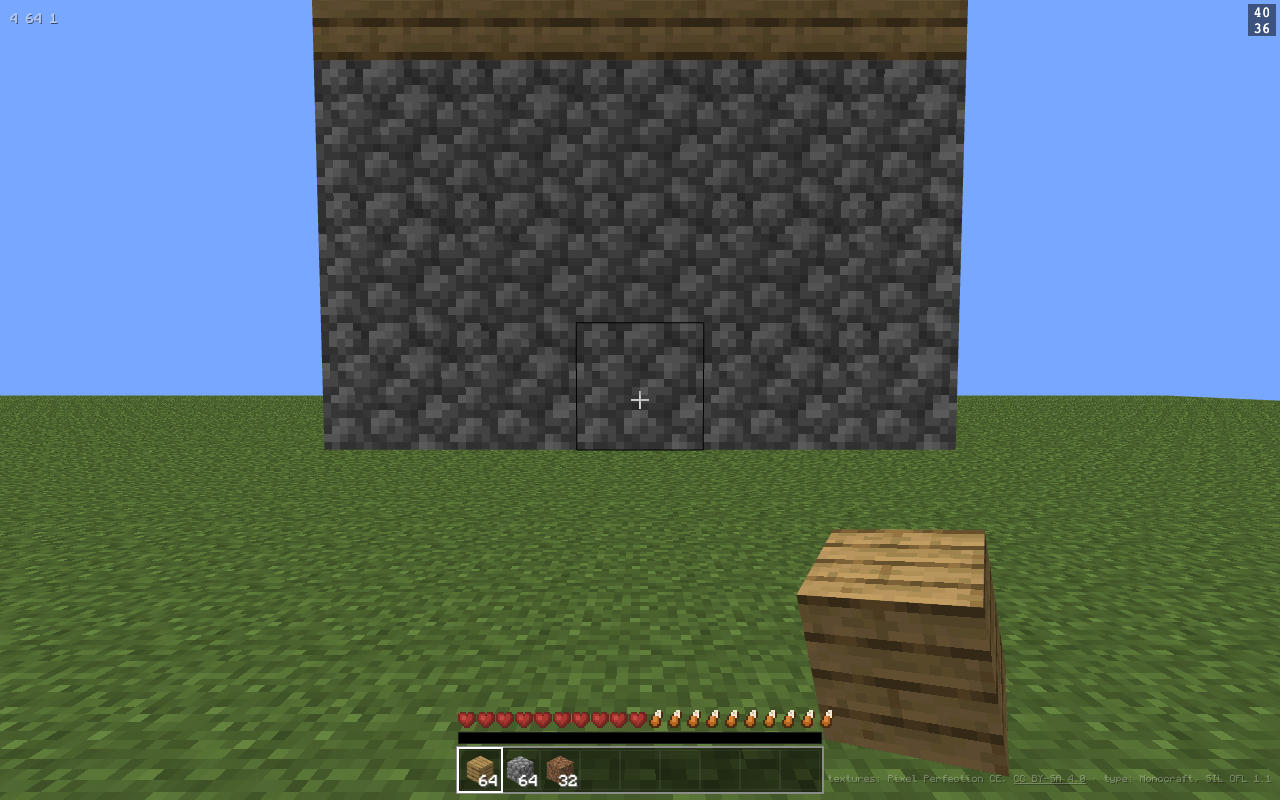
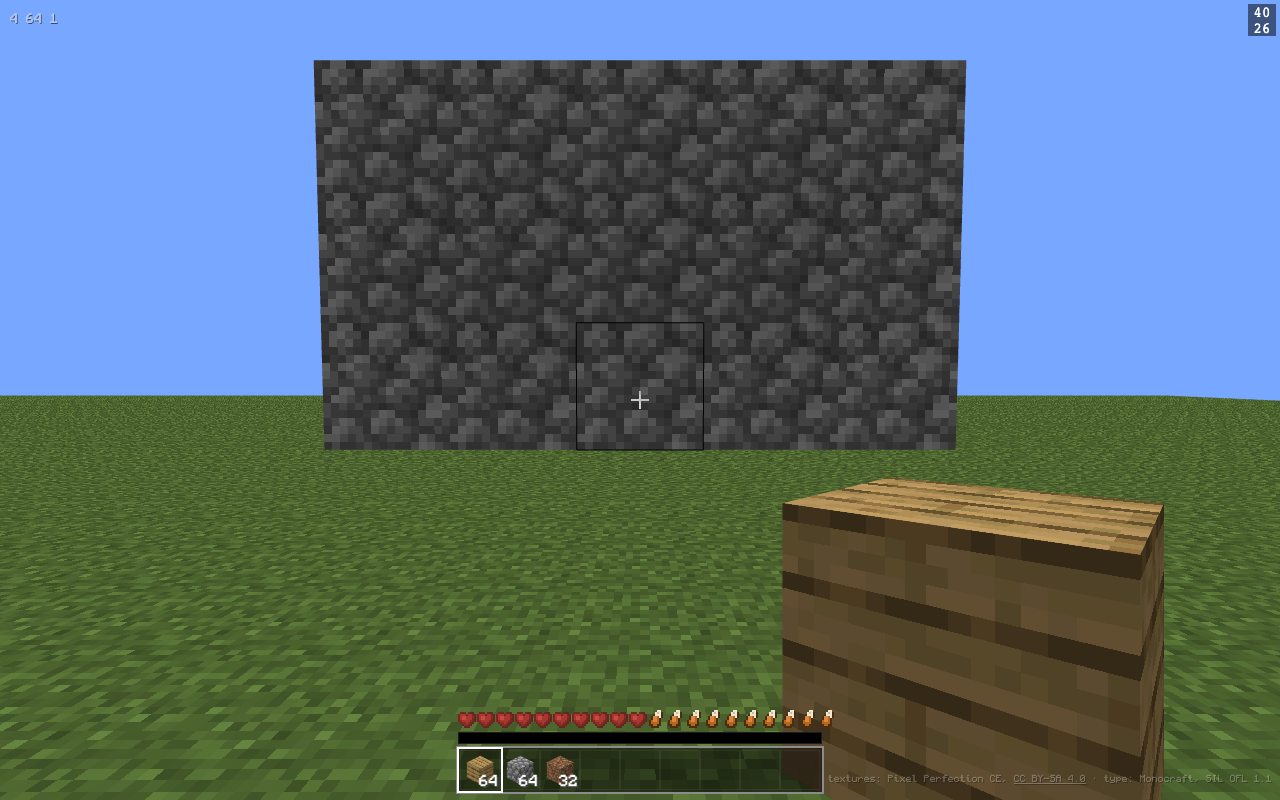
Fix held-item angle, sneak camera drop, and pointer lock re-entry
HELD ITEM. The rotation was hand-picked on all three axes, which is what made
the angle look wrong. Minecraft's own model, assets/minecraft/models/block/
block.json, gives "firstperson_righthand" as rotation [0, 45, 0] -- yaw only,
no pitch or roll. Now uses that, at a larger scale. Its raw ItemInHandRenderer
offsets (0.56, -0.52, -0.72) assume Minecraft's separate hand projection and
put the block half off-screen here, so the placement keeps Minecraft's framing
adapted to this projection.

SNEAK. It was already hold-not-toggle, and now measurably is: eye 1.62 and
speed 4.317 standing, 1.27 and 1.295 while Shift is held, both restored on
release. What was missing is why it FELT like a toggle -- there was no visual
feedback at all, so speed was the only cue. Minecraft drops the camera 0.35
blocks when sneaking (eye 1.62 -> 1.27), eased over a few ticks. Same root
cause as sprint feeling broken without its FOV kick.

The drop is applied to noa's cameraTarget follow offset rather than to the
player body, so it cannot desync from collision.

POINTER LOCK. Closing the menu left a live OS cursor over a menu-less world
until you clicked again. Browsers impose a cooldown (~1.25s in Chrome) after
the USER presses Escape to exit pointer lock, during which requestPointerLock
is silently rejected. Now retries until it takes, with a click as backstop.

That fix exposed a second bug: a FAILED lock request also emits
[…]

Changed region(s): [[0.5938, 0.5938, 0.9062, 1.0], [0.2188, 0.0, 0.7812, 0.0938]]

diff --git a/src/heldItem.js b/src/heldItem.js
@@ -23,20 +23,25 @@ import { BLOCK_BY_ID } from './blocks.js'
  */
 
 /*
- * Where the block sits in camera space, and how big it is.
+ * Minecraft's own numbers, not guesses.
  *
- * These two are coupled: apparent size is roughly SCALE/z, so the pair is
- * chosen to hold the on-screen size while pushing the cube AWAY from the eye.
- * Distance matters independently of size because Minecraft renders its
- * viewmodel through a narrower FOV than the world; we can't easily do that
- * with a camera-parented mesh, and a cube held very close to a wide-FOV
- * camera splays out with obvious perspective distortion. Moving it back and
- * scaling it up trades that distortion away for free.
+ * The placement comes from ItemInHandRenderer, which translates the held item
+ * by (0.56, -0.52, -0.72) for the right hand. Minecraft's -Z is forward while
+ * Babylon's +Z is, hence the flipped sign on z.
  *
- * x and y scale with z so the block stays pinned in the lower-right corner.
+ * The rotation comes from the vanilla model assets/minecraft/models/block/
+ * block.json, whose "firstperson_righthand" display transform is
+ * rotation [0, 45, 0]. Yaw only -- no pitch, no roll. Earlier this had a
+ * hand-picked tilt on all three axes, which is what made the angle wrong.
+//
+ * Minecraft's raw offsets assume its own hand projection, which is set up
+ * separately from the world camera; dropped straight into ours the block
+ * sits half off the bottom-right corner. These keep Minecraft's rotation and
+ * relative framing but are pulled in to sit correctly in this projection.
  */
-const REST = { x: 0.70, y: -0.61, z: 1.50 }
-const SCALE = 0.40
+const REST = { x: 0.42, y: -0.30, z: 0.72 }
+const SCALE = 0.34
+const YAW = Math.PI / 4   // the 45 degrees from block.json
 
 export function installHeldItem(noa, inventory) {
   const scene = noa.rendering.getScene()
@@ -132,12 +137,13 @@ export function installHeldItem(noa, inventory) {
     const by = Math.abs(Math.sin(bobPhase)) * -0.026 * bobAmount
 
     // Minecraft's swing is an arc: the item dips and rotates, then returns.
+    // These deltas ride on top of the base transform rather than replacing it.
     const s = Math.sin(swing * Math.PI)
-    mesh.position.set(REST.x + bx - s * 0.12, REST.y + by - s * 0.16, REST.z - s * 0.06)
+    mesh.position.set(REST.x + bx - s * 0.12, REST.y + by - s * 0.18, REST.z - s * 0.08)
     mesh.rotation.set(
-      -0.22 + s * 0.9,
-      0.55 - s * 0.35,
-      0.12 + Math.cos(bobPhase) * 0.02 * bobAmount,
+      s * 0.8,
+      YAW - s * 0.3,
+      Math.cos(bobPhase) * 0.02 * bobAmount,
     )
 
     // Minecraft hides the viewmodel in third person.

diff --git a/src/physics.js b/src/physics.js
@@ -28,6 +28,9 @@ export const MC = {
   PLAYER_HEIGHT: 1.8,
   PLAYER_WIDTH: 0.6,
   EYE_HEIGHT: 1.62,
+  // Minecraft's sneaking eye height. The 0.35 drop from 1.62 is what you see.
+  SNEAK_EYE_HEIGHT: 1.27,
+  SNEAK_HEIGHT: 1.5,
 
   // Fall damage begins after 3 blocks, then 1 half-heart per extra block.
   FALL_SAFE_BLOCKS: 3,
@@ -133,6 +136,18 @@ export function installSpeedModes(noa, move, survival) {
   let jumpWasDown = false
 
   /*
+   * Sneak camera drop. Minecraft's eye height is 1.62 standing and 1.27
+   * sneaking, a 0.35 block drop, and seeing the view dip is most of how
+   * sneaking reads as sneaking.
+   *
+   * noa points its camera at a separate `cameraTarget` entity that follows
+   * the player with a fixed offset, so the drop is a change to that offset
+   * rather than anything touching the player body.
+   */
+  const follow = noa.ents.getState(noa.camera.cameraTarget, 'followsEntity')
+  let eyeHeight = MC.EYE_HEIGHT
+
+  /*
    * Double-tap detection hangs off noa's keydown EVENT, not off polling
    * inputs.state each tick. A quick tap can begin and end entirely between
    * two ticks, so polling misses the first press outright and the double-tap
@@ -159,6 +174,12 @@ export function installSpeedModes(noa, move, survival) {
     move.maxSpeed = S.sneak ? MC.SNEAK_SPEED
       : sprinting ? MC.SPRINT_SPEED
       : MC.WALK_SPEED
+
+    // Minecraft eases this over a few ticks rather than snapping, which is
+    // what stops it reading as a glitch.
+    const targetEye = S.sneak ? MC.SNEAK_EYE_HEIGHT : MC.EYE_HEIGHT
+    eyeHeight += (targetEye - eyeHeight) * Math.min(1, (dt / 1000) * 14)
+    follow.offset[1] = eyeHeight
 
     // Ease the FOV rather than snapping it, the way Minecraft does.
     const targetFov = sprinting ? baseFov * SPRINT_FOV_MULT : baseFov

diff --git a/src/menu.js b/src/menu.js
@@ -31,6 +31,27 @@ const CONTROLS = [
   ['Esc', 'This menu'],
 ]
 
+/*
+ * Re-acquiring pointer lock after the menu closes.
+ *
+ * Browsers impose a cooldown (~1.25s in Chrome) after the USER presses Escape
+ * to exit pointer lock: requestPointerLock is silently rejected during it.
+ * That is the bug where closing the menu left a live OS cursor over a
+ * menu-less world until you clicked again.
+ *
+ * So: ask immediately, then keep asking until it takes. main.js also re-locks
+ * on any click as a backstop, since a click always carries fresh user
+ * activation.
+ */
+export function requestLockPersistently(noa) {
+  noa.container.setPointerLock(true)
+  let tries = 0
+  const timer = setInterval(() => {
+    if (noa.container.hasPointerLock || ++tries > 14) return clearInterval(timer)
+    noa.container.setPointerLock(true)
+  }, 150)
+}
+
 export function installMenu(noa, { inputLock, inventory, survival }) {
   const screen = document.getElementById('pause')
   const controls = document.getElementById('controls')
@@ -70,9 +91,7 @@ export function installMenu(noa, { inputLock, inventory, survival }) {
   backRow.className = 'button-row'
   backRow.appendChild(mkButton('Back to Game', () => {
     setOpen(false)
-    // Synchronously inside the click handler: browsers only grant pointer
-    // lock from a real user gesture.
-    noa.container.setPointerLock(true)
+    requestLockPersistently(noa)
   }, { wide: true }))
   buttonRows.appendChild(backRow)
 
@@ -125,7 +144,7 @@ export function installMenu(noa, { inputLock, inventory, survival }) {
     if (survival.dead) return
     if (!screen.classList.contains('hidden')) {
       setOpen(false)
-      noa.container.setPointerLock(true)
+      requestLockPersistently(noa)
     }
   })
 

diff --git a/src/main.js b/src/main.js
@@ -10,7 +10,7 @@ import { installInteraction, installHotbarControls } from './interact.js'
 import { installRespawn } from './respawn.js'
 import { installHUD } from './hud.js'
 import { createInputLock } from './inputLock.js'
-import { installMenu } from './menu.js'
+import { installMenu, requestLockPersistently } from './menu.js'
 import { installHeldItem } from './heldItem.js'
 import { installCrackOverlay } from './crackOverlay.js'
 import { installSky } from './sky.js'
@@ -145,7 +145,7 @@ inventory.add(ids.dirt, 32)
 const gameEl = document.getElementById('game')
 gameEl.addEventListener('mousedown', () => {
   if (inventory.open || menu.isOpen || survival.dead) return
-  if (!noa.container.hasPointerLock) noa.container.setPointerLock(true)
+  if (!noa.container.hasPointerLock) requestLockPersistently(noa)
 })
 
 // Keyboard events reach noa through its container, which has to be focused.
@@ -162,7 +162,16 @@ gameEl.focus()
  * lock deliberately, and without them each would immediately stack the pause
  * menu on top of itself.
  */
+let wasLocked = false
+noa.container.on('gainedPointerLock', () => { wasLocked = true })
+
 noa.container.on('lostPointerLock', () => {
+  // Only a real locked -> unlocked transition should open the menu. A FAILED
+  // lock request also emits this, so without the guard the retry loop that
+  // works around Chrome's post-Escape cooldown would keep popping the menu
+  // back open while it retried.
+  if (!wasLocked) return
+  wasLocked = false
   if (inventory.open || survival.dead || menu.isOpen) return
   menu.open()
 })
